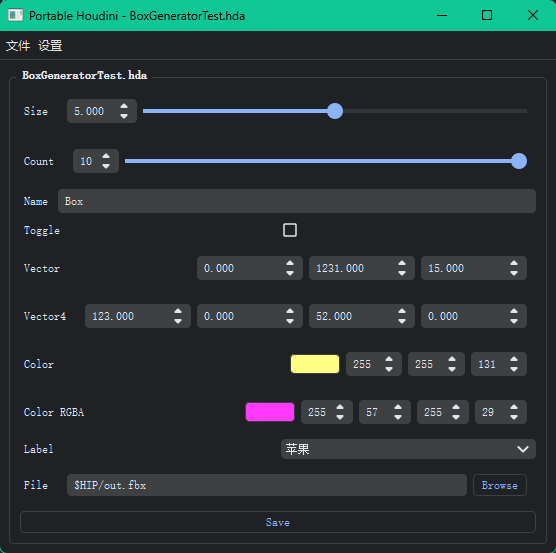
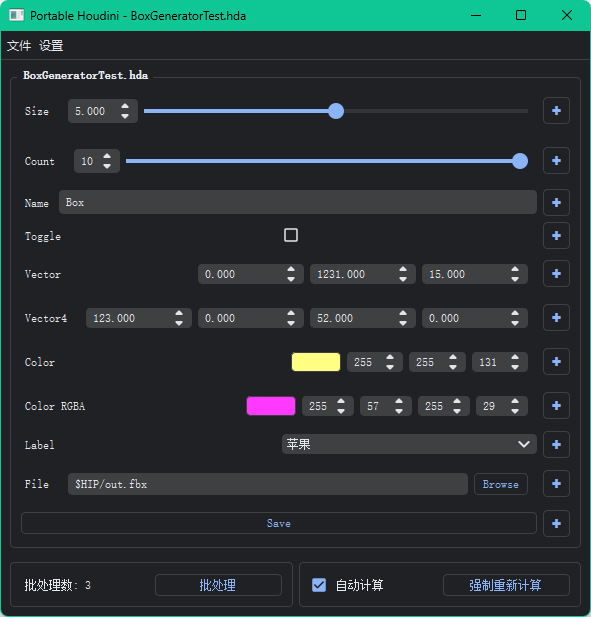
[Doc] Update batch processing documentation

diff --git a/README.md b/README.md
@@ -1,10 +1,10 @@
-[![中文](https://img.shields.io/badge/lang-中文-blue.svg)](#简介) [![English](https://img.shields.io/badge/lang-English-red.svg)](#Introduction)
+[![中文](https://img.shields.io/badge/lang-中文-blue.svg)](##简介) [![English](https://img.shields.io/badge/lang-English-red.svg)](##Introduction)
 
 # Portable Houdini
 
-# 简介
+## 简介
 
-Portable Houdini是一个便携的独立的Houdini界面，能够在不开启Houdini的情况下加载HDA文件并调整参数，适合在程序化生成过程中，将HDA与此工具交付给美术使用，无需任何前置知识和依赖安装，即插即用。
+Portable Houdini是一个便携的独立的Houdini界面，能够在不开启Houdini的情况下加载HDA文件并调整参数，并支持配置批处理。适合在程序化生成过程中，将HDA与此工具交付给美术使用，无需任何前置知识和依赖安装，即插即用。
 
 ![screenshot](img/screenshot_0.png)
 
@@ -34,13 +34,29 @@ Portable Houdini是一个便携的独立的Houdini界面，能够在不开启Hou
 ## 使用方法
 
 1. 初次使用时需要点击**设置>常规设置**以设置Houdini的安装路径。默认安装路径是**C:\Program Files\Side Effects Software\Houdini xx.xx**。
-2. 点击**文件>打开HDA**即可打开HDA文件。点击之后会自动读取并绘制HDA参数界面。
+2. 点击**文件>打开HDA**即可打开HDA文件。点击之后会自动读取并绘制**HDA参数界面**。
+
+### 批处理
+
+每个HDA参数右侧都有一个**✚**按钮，可以设置该参数的批处理值。点击之后会打开如下窗口。
+
+![screenshot](img/screenshot_1.png)
+
+按下左下角的**✚**按钮可以增加一个批处理参数值，选中一个批处理参数后点击旁边的 **-** 按钮可以删掉该参数。
+
+批处理参数的意义是——在进行批处理时，会按照批次顺序，将当前批次的HDA属性值设置为对应的属性值进行处理。如果属性在当前批次没有设置属性值，那么会使用**HDA主参数界面的值作为当前批次属性值**。
+
+此外，在打开**按钮**类型的批处理面板时，属性值类型为复选框，若复选框在当前批次的属性值为真(即勾选复选框)，那么当前批次会触发点击该按钮的事件。
+
+设置完批处理参数值后，点击左下角的**应用**即可保存批处理结果。
+
+在HDA参数界面的左下角会显示批处理的批次总数，点击**批处理**按钮即可继续批处理。
 
 ## 路线图
 
 > 我写了!=我要做
 
-- [ ] 支持文件批处理
+- [x] 支持文件批处理
 - [x] 支持自动Recook开关
 - [ ] 支持(几乎)全部变量类型
 - [ ] 支持ToolTips
@@ -55,42 +71,59 @@ Portable Houdini是一个便携的独立的Houdini界面，能够在不开启Hou
 
 ## Introduction
 
-**Portable Houdini** is a portable, standalone Houdini interface that allows loading HDA files and adjusting parameters without opening Houdini. It is suitable for use in the procedural generation process, enabling artists to use the HDA and this tool without any prior knowledge or dependency installations, making it a plug-and-play solution.
+Portable Houdini is a portable standalone Houdini interface that allows loading HDA files and adjusting parameters without opening Houdini. It also supports batch processing configuration. This tool is suitable for use in the procedural generation process, allowing artists to use the HDA files with this tool without any prior knowledge or dependency installations. It's truly plug-and-play.
 
 ![screenshot](img/screenshot_0.png)
 
 ## Installation
 
-1. **Install the appropriate version of Python**: Depending on the Houdini version you are using, install the corresponding Python version. For example, Houdini 19.0 requires Python 3.7, while Houdini 19.5 requires Python 3.9.
-   
+1. Install the appropriate version of Python. Install the Python version required by the Houdini version you need. For example, Houdini 19.0 requires Python 3.7, and Houdini 19.5 requires Python 3.9.
    To create a plug-and-play Python environment, follow these steps (for Windows):
 
-   + Download the appropriate version of the Python installer from the official website, such as [Windows x86-64 executable installer](https://www.python.org/ftp/python/3.9.0/python-3.9.0-amd64.exe).
+   + Download the appropriate version of the Python installer from the official website, such as the [Windows x86-64 executable installer](https://www.python.org/ftp/python/3.9.0/python-3.9.0-amd64.exe).
    + Install Python using the installer.
-   + Copy the installed Python environment to the `venv` directory and rename it to `Python37` or `Python39`. The default installation path of the Python installer is **C:\Users\UserName\AppData\Local\Programs\Python\Pythonxx**.
+   + Copy the installed Python environment to the `venv` directory and rename it to `Python37` or `Python39`. The default installation path for the Python installer is **C:\Users\UserName\AppData\Local\Programs\Python\Pythonxx**.
 
-2. **Install dependencies**: Use the following command to install the required modules:
+2. Install dependencies. Use the following command to install the required modules:
 
-   ```sh
+   ```
    python -m pip install -r requirements.txt
    ```
 
-3. **Run the program**: Use the following command to run the program:
+3. Run the program using the following command:
 
-   ```sh
+   ```
    python main.py
    ```
 
-   If you created a Python37 or Python39 environment in the `venv` folder in step 1, you can directly run the program by double-clicking the *run_py37.bat* file.
+   If you created a `Python37` or `Python39` environment in the `venv` folder in step 1, you can run the program directly by double-clicking the *run_py37.bat* file.
 
 ## Usage
 
-1. **Initial Setup**: On first use, click **Settings > General Settings** to set the Houdini installation path. The default installation path is **C:\Program Files\Side Effects Software\Houdini xx.xx**.
-2. **Open HDA File**: Click **File > Open HDA** to open an HDA file. The tool will automatically read and render the HDA parameter interface.
+1. On first use, you need to click **Settings > General Settings** to set the Houdini installation path. The default installation path is **C:\Program Files\Side Effects Software\Houdini xx.xx**.
+2. Click **File > Open HDA** to open an HDA file. Clicking this will automatically read and render the **HDA parameter interface**.
+
+### Batch Processing
+
+Each HDA parameter has a **✚** button on its right side, allowing you to set batch processing values for that parameter. Clicking this button opens the following window.
+
+![screenshot](img/screenshot_1.png)
+
+Pressing the **✚** button at the bottom left adds a batch processing parameter value. Selecting a batch processing parameter and clicking the adjacent **-** button removes that parameter.
+
+The meaning of batch processing parameters is that during batch processing, the HDA attribute value for the current batch will be set to the corresponding attribute value in sequence. If an attribute does not have a set value in the current batch, the **value from the main HDA parameter interface will be used as the attribute value for the current batch**.
+
+Additionally, when opening the batch processing panel for a **button** type parameter, the attribute value type is a checkbox. If the checkbox value for the current batch is true (i.e., the checkbox is checked), the event of clicking that button will be triggered for the current batch.
+
+After setting the batch processing parameter values, click the **Apply** button at the bottom left to save the batch processing results.
+
+The total number of batches is displayed at the bottom left of the HDA parameter interface. Click the **Batch Process** button to continue with batch processing.
 
 ## Roadmap
 
-- [ ] Support batch file processing
+> I wrote != I will do
+
+- [x] Support batch file processing
 - [x] Support auto Recook toggle
 - [ ] Support (almost) all variable types
 - [ ] Support ToolTips
